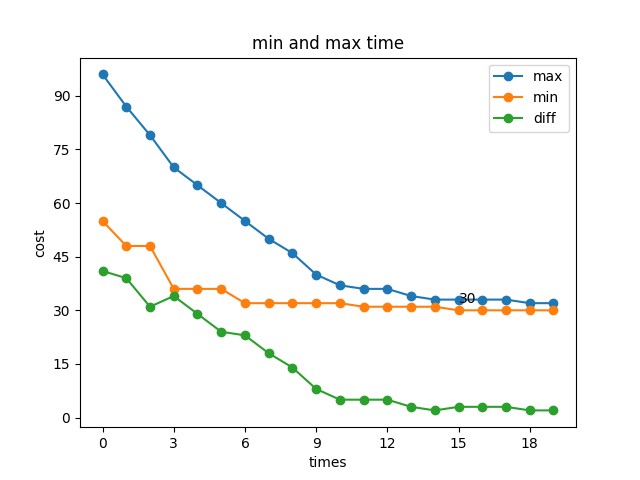
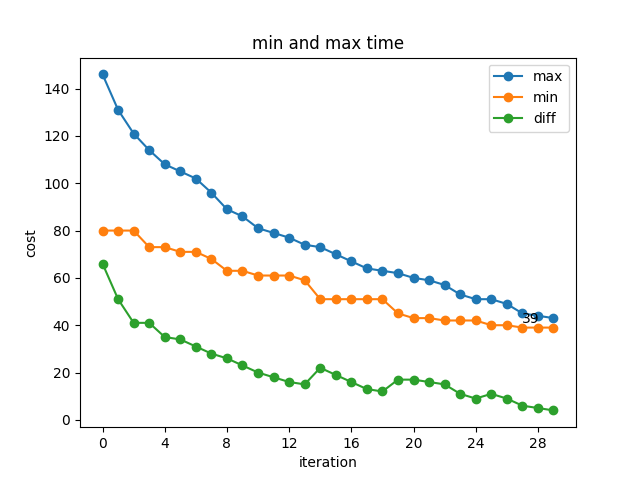
change gaPara

diff --git a/visual_data.py b/visual_data.py
@@ -19,8 +19,8 @@ class visual_data():
     def show_best(self, i: int):
         plt.plot(self.data['best'], label='best', marker='o')
         plt.title('best value')
-        plt.xlabel('times')
-        plt.ylabel('best')                                
+        plt.xlabel('iteration')
+        plt.ylabel('cost')                                
         plt.gca().xaxis.set_major_locator(MaxNLocator(integer=True))
         plt.gca().yaxis.set_major_locator(MaxNLocator(integer=True))
         minIdx = np.argmin(self.data['best'])
@@ -34,7 +34,7 @@ class visual_data():
         plt.plot(self.data['min'], label='min', marker='o')
         plt.plot(self.data['dif'], label='diff', marker='o')
         plt.title('min and max time')
-        plt.xlabel('times')
+        plt.xlabel('iteration')
         plt.ylabel('cost')                                
         plt.gca().xaxis.set_major_locator(MaxNLocator(integer=True))
         plt.gca().yaxis.set_major_locator(MaxNLocator(integer=True))

diff --git a/app.py b/app.py
@@ -43,19 +43,19 @@ def draw_plt(bestSolTime: list):
 if __name__ == '__main__':
     table = None
     try:
-        with open('data.csv', 'r') as f:
+        with open('data.csv', 'r', newline='') as f:
             csvReader = csv.reader(f)
             table = list(csvReader)
     except:
         pass
 
     japProblem = jap(table)
-    # japProblem = jap(None, N=10, MAX_VAL=20)
+    # japProblem = jap(None, N=15, MAX_VAL=20)
 
     gaParameter = {
-        'liveLoops' : 20,
+        'liveLoops' : 30,
         'jap' : japProblem,
-        'popSize' : 50,
+        'popSize' : 60,
         'geneSize' : len(japProblem.timeTable),
         'mutationRate' : 0.1,
         'mutationType' : mutation_type.Inversion,
@@ -63,7 +63,7 @@ if __name__ == '__main__':
         'crossoverType' : crossover_type.PartialCrossover
     }
 
-    loops = 10
+    loops = 15
     data = []
     bestSolTime = []
     remove_exist_file()
